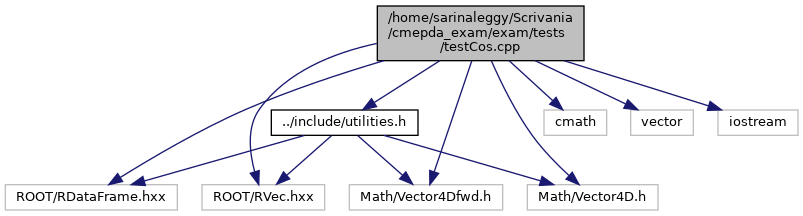
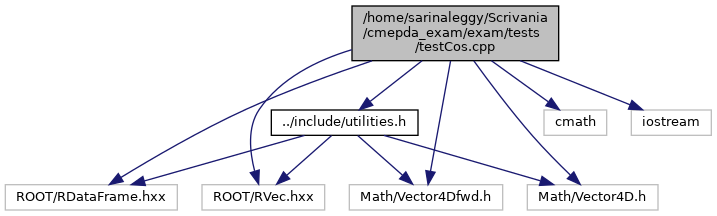
Add files via upload

Changed region(s): [[0.0, 0.0, 1.0, 1.0]]

diff --git a/testOperationHist_8cpp.html b/testOperationHist_8cpp.html
@@ -113,27 +113,27 @@ Include dependency graph for testOperationHist.cpp:</div>
 <div class="dyncontent">
 <div class="center"><img src="testOperationHist_8cpp__incl.png" border="0" usemap="#a_2home_2sarinaleggy_2Scrivania_2cmepda__exam_2exam_2tests_2testOperationHist_8cpp" alt=""/></div>
 <map name="a_2home_2sarinaleggy_2Scrivania_2cmepda__exam_2exam_2tests_2testOperationHist_8cpp" id="a_2home_2sarinaleggy_2Scrivania_2cmepda__exam_2exam_2tests_2testOperationHist_8cpp">
-<area shape="rect" title="Testing if the the content of bins are almost equal to the calculated value after operation on histog..." alt="" coords="1329,5,1536,61"/>
-<area shape="rect" href="graphicalUtilities_8h.html" title="Graphical utilities for displaying histograms of Afb, Z spectrum, cos(theta*) and saving the plots." alt="" coords="933,109,1141,136"/>
-<area shape="rect" title=" " alt="" coords="5,184,76,211"/>
-<area shape="rect" title=" " alt="" coords="100,184,272,211"/>
-<area shape="rect" title=" " alt="" coords="1526,184,1649,211"/>
-<area shape="rect" title=" " alt="" coords="1673,184,1827,211"/>
-<area shape="rect" title=" " alt="" coords="1851,184,1982,211"/>
-<area shape="rect" title=" " alt="" coords="1521,109,1601,136"/>
-<area shape="rect" title=" " alt="" coords="1625,109,1688,136"/>
-<area shape="rect" title=" " alt="" coords="1712,109,1777,136"/>
-<area shape="rect" title=" " alt="" coords="1106,184,1197,211"/>
-<area shape="rect" title=" " alt="" coords="1221,184,1279,211"/>
-<area shape="rect" title=" " alt="" coords="1304,184,1369,211"/>
-<area shape="rect" title=" " alt="" coords="1393,184,1501,211"/>
-<area shape="rect" title=" " alt="" coords="296,184,367,211"/>
-<area shape="rect" title=" " alt="" coords="391,184,549,211"/>
-<area shape="rect" title=" " alt="" coords="573,184,663,211"/>
-<area shape="rect" title=" " alt="" coords="687,184,765,211"/>
-<area shape="rect" title=" " alt="" coords="790,184,865,211"/>
-<area shape="rect" title=" " alt="" coords="889,184,968,211"/>
-<area shape="rect" title=" " alt="" coords="992,184,1081,211"/>
+<area shape="rect" title="Testing if the the content of bins are almost equal to the calculated value after operation on histog..." alt="" coords="1002,5,1209,61"/>
+<area shape="rect" href="graphicalUtilities_8h.html" title="Graphical utilities for displaying histograms of Afb, Z spectrum, cos(theta*) and saving the plots." alt="" coords="860,109,1068,136"/>
+<area shape="rect" title=" " alt="" coords="5,184,85,211"/>
+<area shape="rect" title=" " alt="" coords="110,184,181,211"/>
+<area shape="rect" title=" " alt="" coords="205,184,377,211"/>
+<area shape="rect" title=" " alt="" coords="1631,184,1753,211"/>
+<area shape="rect" title=" " alt="" coords="1778,184,1931,211"/>
+<area shape="rect" title=" " alt="" coords="1956,184,2087,211"/>
+<area shape="rect" title=" " alt="" coords="1245,109,1307,136"/>
+<area shape="rect" title=" " alt="" coords="1331,109,1397,136"/>
+<area shape="rect" title=" " alt="" coords="820,184,911,211"/>
+<area shape="rect" title=" " alt="" coords="935,184,993,211"/>
+<area shape="rect" title=" " alt="" coords="1018,184,1083,211"/>
+<area shape="rect" title=" " alt="" coords="1107,184,1215,211"/>
+<area shape="rect" title=" " alt="" coords="1239,184,1310,211"/>
+<area shape="rect" title=" " alt="" coords="1334,184,1493,211"/>
+<area shape="rect" title=" " alt="" coords="1517,184,1606,211"/>
+<area shape="rect" title=" " alt="" coords="401,184,479,211"/>
+<area shape="rect" title=" " alt="" coords="504,184,579,211"/>
+<area shape="rect" title=" " alt="" coords="603,184,682,211"/>
+<area shape="rect" title=" " alt="" coords="706,184,795,211"/>
 </map>
 </div>
 </div><table class="memberdecls">

diff --git a/testFilt_8cpp.html b/testFilt_8cpp.html
@@ -99,13 +99,12 @@ $(document).ready(function(){initNavTree('testFilt_8cpp.html',''); initResizable
 
 <p>Testing if the filter function works.  
 <a href="#details">More...</a></p>
-<div class="textblock"><code>#include &lt;ROOT/RDataFrame.hxx&gt;</code><br />
+<div class="textblock"><code>#include &quot;../src/filterDf.cpp&quot;</code><br />
+<code>#include &lt;ROOT/RDataFrame.hxx&gt;</code><br />
 <code>#include &lt;cmath&gt;</code><br />
-<code>#include &quot;../src/filterDf.cpp&quot;</code><br />
 <code>#include &lt;ROOT/RVec.hxx&gt;</code><br />
 <code>#include &lt;Math/Vector4Dfwd.h&gt;</code><br />
 <code>#include &lt;Math/Vector4D.h&gt;</code><br />
-<code>#include &lt;vector&gt;</code><br />
 <code>#include &lt;iostream&gt;</code><br />
 <code>#include &lt;filesystem&gt;</code><br />
 </div><div class="textblock"><div class="dynheader">
@@ -113,16 +112,15 @@ Include dependency graph for testFilt.cpp:</div>
 <div class="dyncontent">
 <div class="center"><img src="testFilt_8cpp__incl.png" border="0" usemap="#a_2home_2sarinaleggy_2Scrivania_2cmepda__exam_2exam_2tests_2testFilt_8cpp" alt=""/></div>
 <map name="a_2home_2sarinaleggy_2Scrivania_2cmepda__exam_2exam_2tests_2testFilt_8cpp" id="a_2home_2sarinaleggy_2Scrivania_2cmepda__exam_2exam_2tests_2testFilt_8cpp">
-<area shape="rect" title="Testing if the filter function works." alt="" coords="561,5,768,61"/>
-<area shape="rect" title=" " alt="" coords="5,109,177,136"/>
-<area shape="rect" title=" " alt="" coords="201,109,264,136"/>
-<area shape="rect" title=" " alt="" coords="289,109,417,136"/>
-<area shape="rect" title=" " alt="" coords="441,109,563,136"/>
-<area shape="rect" title=" " alt="" coords="588,109,741,136"/>
-<area shape="rect" title=" " alt="" coords="766,109,897,136"/>
-<area shape="rect" title=" " alt="" coords="921,109,984,136"/>
-<area shape="rect" title=" " alt="" coords="1009,109,1089,136"/>
-<area shape="rect" title=" " alt="" coords="1113,109,1203,136"/>
+<area shape="rect" title="Testing if the filter function works." alt="" coords="481,5,687,61"/>
+<area shape="rect" title=" " alt="" coords="5,109,133,136"/>
+<area shape="rect" title=" " alt="" coords="158,109,330,136"/>
+<area shape="rect" title=" " alt="" coords="354,109,417,136"/>
+<area shape="rect" title=" " alt="" coords="441,109,564,136"/>
+<area shape="rect" title=" " alt="" coords="589,109,742,136"/>
+<area shape="rect" title=" " alt="" coords="767,109,897,136"/>
+<area shape="rect" title=" " alt="" coords="921,109,1001,136"/>
+<area shape="rect" title=" " alt="" coords="1025,109,1116,136"/>
 </map>
 </div>
 </div><table class="memberdecls">

diff --git a/testEnergy_8cpp.html b/testEnergy_8cpp.html
@@ -99,28 +99,26 @@ $(document).ready(function(){initNavTree('testEnergy_8cpp.html',''); initResizab
 
 <p>Testing if the sum of E1 and E2 is almost equal to Etot.  
 <a href="#details">More...</a></p>
-<div class="textblock"><code>#include &lt;ROOT/RDataFrame.hxx&gt;</code><br />
+<div class="textblock"><code>#include &quot;<a class="el" href="utilities_8h_source.html">../include/utilities.h</a>&quot;</code><br />
+<code>#include &lt;ROOT/RDataFrame.hxx&gt;</code><br />
 <code>#include &lt;cmath&gt;</code><br />
-<code>#include &quot;<a class="el" href="utilities_8h_source.html">../include/utilities.h</a>&quot;</code><br />
 <code>#include &lt;ROOT/RVec.hxx&gt;</code><br />
 <code>#include &lt;Math/Vector4Dfwd.h&gt;</code><br />
 <code>#include &lt;Math/Vector4D.h&gt;</code><br />
-<code>#include &lt;vector&gt;</code><br />
 <code>#include &lt;iostream&gt;</code><br />
 </div><div class="textblock"><div class="dynheader">
 Include dependency graph for testEnergy.cpp:</div>
 <div class="dyncontent">
 <div class="center"><img src="testEnergy_8cpp__incl.png" border="0" usemap="#a_2home_2sarinaleggy_2Scrivania_2cmepda__exam_2exam_2tests_2testEnergy_8cpp" alt=""/></div>
 <map name="a_2home_2sarinaleggy_2Scrivania_2cmepda__exam_2exam_2tests_2testEnergy_8cpp" id="a_2home_2sarinaleggy_2Scrivania_2cmepda__exam_2exam_2tests_2testEnergy_8cpp">
-<area shape="rect" title="Testing if the sum of E1 and E2 is almost equal to Etot." alt="" coords="377,5,584,61"/>
-<area shape="rect" title=" " alt="" coords="5,184,177,211"/>
-<area shape="rect" title=" " alt="" coords="544,109,607,136"/>
+<area shape="rect" title="Testing if the sum of E1 and E2 is almost equal to Etot." alt="" coords="352,5,559,61"/>
 <area shape="rect" href="utilities_8h.html" title="Utilities to define new columns on the dataframe." alt="" coords="271,109,418,136"/>
+<area shape="rect" title=" " alt="" coords="5,184,177,211"/>
 <area shape="rect" title=" " alt="" coords="202,184,325,211"/>
 <area shape="rect" title=" " alt="" coords="349,184,503,211"/>
 <area shape="rect" title=" " alt="" coords="527,184,658,211"/>
-<area shape="rect" title=" " alt="" coords="631,109,693,136"/>
-<area shape="rect" title=" " alt="" coords="718,109,798,136"/>
+<area shape="rect" title=" " alt="" coords="544,109,607,136"/>
+<area shape="rect" title=" " alt="" coords="631,109,711,136"/>
 </map>
 </div>
 </div><table class="memberdecls">

diff --git a/utilities_8h.html b/utilities_8h.html
@@ -100,9 +100,9 @@ $(document).ready(function(){initNavTree('utilities_8h.html',''); initResizable(
 <p>Utilities to define new columns on the dataframe.  
 <a href="#details">More...</a></p>
 <div class="textblock"><code>#include &lt;ROOT/RDataFrame.hxx&gt;</code><br />
-<code>#include &quot;ROOT/RVec.hxx&quot;</code><br />
-<code>#include &quot;Math/Vector4Dfwd.h&quot;</code><br />
-<code>#include &quot;Math/Vector4D.h&quot;</code><br />
+<code>#include &lt;ROOT/RVec.hxx&gt;</code><br />
+<code>#include &lt;Math/Vector4Dfwd.h&gt;</code><br />
+<code>#include &lt;Math/Vector4D.h&gt;</code><br />
 </div><div class="textblock"><div class="dynheader">
 Include dependency graph for utilities.h:</div>
 <div class="dyncontent">
@@ -121,9 +121,9 @@ This graph shows which files directly or indirectly include this file:</div>
 <div class="center"><img src="utilities_8h__dep__incl.png" border="0" usemap="#a_2home_2sarinaleggy_2Scrivania_2cmepda__exam_2exam_2include_2utilities_8hdep" alt=""/></div>
 <map name="a_2home_2sarinaleggy_2Scrivania_2cmepda__exam_2exam_2include_2utilities_8hdep" id="a_2home_2sarinaleggy_2Scrivania_2cmepda__exam_2exam_2include_2utilities_8hdep">
 <area shape="rect" title="Utilities to define new columns on the dataframe." alt="" coords="637,5,851,61"/>
-<area shape="rect" href="afb_8h.html" title=" " alt="" coords="5,117,256,158"/>
-<area shape="rect" href="costheta_8h.html" title=" " alt="" coords="281,109,495,165"/>
-<area shape="rect" href="dimuonSpectrumZ_8h.html" title=" " alt="" coords="519,109,734,165"/>
+<area shape="rect" href="afb_8h.html" title="Creating afb histogram in function of dimuon mass." alt="" coords="5,117,256,158"/>
+<area shape="rect" href="costheta_8h.html" title="Creating costheta histogram from filtered dataframe." alt="" coords="281,109,495,165"/>
+<area shape="rect" href="dimuonSpectrumZ_8h.html" title="Creating dimuon spectrum histogram of Z from filtered dataframe." alt="" coords="519,109,734,165"/>
 <area shape="rect" href="testCos_8cpp.html" title="Testing if the |cos(theta*)|&lt;1." alt="" coords="758,109,965,165"/>
 <area shape="rect" href="testEnergy_8cpp.html" title="Testing if the sum of E1 and E2 is almost equal to Etot." alt="" coords="989,109,1195,165"/>
 <area shape="rect" href="testEnergyFormulas_8cpp.html" title="Testing if E_i^2=m^2+p_i^2." alt="" coords="1219,109,1426,165"/>

diff --git a/testEnergyFormulas_8cpp.html b/testEnergyFormulas_8cpp.html
@@ -99,28 +99,26 @@ $(document).ready(function(){initNavTree('testEnergyFormulas_8cpp.html',''); ini
 
 <p>Testing if E_i^2=m^2+p_i^2.  
 <a href="#details">More...</a></p>
-<div class="textblock"><code>#include &lt;ROOT/RDataFrame.hxx&gt;</code><br />
+<div class="textblock"><code>#include &quot;<a class="el" href="utilities_8h_source.html">../include/utilities.h</a>&quot;</code><br />
+<code>#include &lt;ROOT/RDataFrame.hxx&gt;</code><br />
 <code>#include &lt;cmath&gt;</code><br />
-<code>#include &quot;<a class="el" href="utilities_8h_source.html">../include/utilities.h</a>&quot;</code><br />
 <code>#include &lt;ROOT/RVec.hxx&gt;</code><br />
 <code>#include &lt;Math/Vector4Dfwd.h&gt;</code><br />
 <code>#include &lt;Math/Vector4D.h&gt;</code><br />
-<code>#include &lt;vector&gt;</code><br />
 <code>#include &lt;iostream&gt;</code><br />
 </div><div class="textblock"><div class="dynheader">
 Include dependency graph for testEnergyFormulas.cpp:</div>
 <div class="dyncontent">
 <div class="center"><img src="testEnergyFormulas_8cpp__incl.png" border="0" usemap="#a_2home_2sarinaleggy_2Scrivania_2cmepda__exam_2exam_2tests_2testEnergyFormulas_8cpp" alt=""/></div>
 <map name="a_2home_2sarinaleggy_2Scrivania_2cmepda__exam_2exam_2tests_2testEnergyFormulas_8cpp" id="a_2home_2sarinaleggy_2Scrivania_2cmepda__exam_2exam_2tests_2testEnergyFormulas_8cpp">
-<area shape="rect" title="Testing if E_i^2=m^2+p_i^2." alt="" coords="377,5,584,61"/>
-<area shape="rect" title=" " alt="" coords="5,184,177,211"/>
-<area shape="rect" title=" " alt="" coords="544,109,607,136"/>
+<area shape="rect" title="Testing if E_i^2=m^2+p_i^2." alt="" coords="352,5,559,61"/>
 <area shape="rect" href="utilities_8h.html" title="Utilities to define new columns on the dataframe." alt="" coords="271,109,418,136"/>
+<area shape="rect" title=" " alt="" coords="5,184,177,211"/>
 <area shape="rect" title=" " alt="" coords="202,184,325,211"/>
 <area shape="rect" title=" " alt="" coords="349,184,503,211"/>
 <area shape="rect" title=" " alt="" coords="527,184,658,211"/>
-<area shape="rect" title=" " alt="" coords="631,109,693,136"/>
-<area shape="rect" title=" " alt="" coords="718,109,798,136"/>
+<area shape="rect" title=" " alt="" coords="544,109,607,136"/>
+<area shape="rect" title=" " alt="" coords="631,109,711,136"/>
 </map>
 </div>
 </div><table class="memberdecls">

diff --git a/utilities_8h_source.html b/utilities_8h_source.html
@@ -99,9 +99,9 @@ $(document).ready(function(){initNavTree('utilities_8h_source.html',''); initRes
 <div class="line"><a name="l00008"></a><span class="lineno">    8</span>&#160;<span class="preprocessor">#define UTILITIES_H</span></div>
 <div class="line"><a name="l00009"></a><span class="lineno">    9</span>&#160; </div>
 <div class="line"><a name="l00010"></a><span class="lineno">   10</span>&#160;<span class="preprocessor">#include &lt;ROOT/RDataFrame.hxx&gt;</span></div>
-<div class="line"><a name="l00011"></a><span class="lineno">   11</span>&#160;<span class="preprocessor">#include &quot;ROOT/RVec.hxx&quot;</span></div>
-<div class="line"><a name="l00012"></a><span class="lineno">   12</span>&#160;<span class="preprocessor">#include &quot;Math/Vector4Dfwd.h&quot;</span></div>
-<div class="line"><a name="l00013"></a><span class="lineno">   13</span>&#160;<span class="preprocessor">#include &quot;Math/Vector4D.h&quot;</span></div>
+<div class="line"><a name="l00011"></a><span class="lineno">   11</span>&#160;<span class="preprocessor">#include &lt;ROOT/RVec.hxx&gt;</span></div>
+<div class="line"><a name="l00012"></a><span class="lineno">   12</span>&#160;<span class="preprocessor">#include &lt;Math/Vector4Dfwd.h&gt;</span></div>
+<div class="line"><a name="l00013"></a><span class="lineno">   13</span>&#160;<span class="preprocessor">#include &lt;Math/Vector4D.h&gt;</span></div>
 <div class="line"><a name="l00014"></a><span class="lineno">   14</span>&#160; </div>
 <div class="line"><a name="l00015"></a><span class="lineno">   15</span>&#160;<span class="keyword">using namespace </span>ROOT::VecOps;</div>
 <div class="line"><a name="l00016"></a><span class="lineno">   16</span>&#160; </div>

diff --git a/testCos_8cpp.html b/testCos_8cpp.html
@@ -105,22 +105,20 @@ $(document).ready(function(){initNavTree('testCos_8cpp.html',''); initResizable(
 <code>#include &lt;ROOT/RVec.hxx&gt;</code><br />
 <code>#include &lt;Math/Vector4Dfwd.h&gt;</code><br />
 <code>#include &lt;Math/Vector4D.h&gt;</code><br />
-<code>#include &lt;vector&gt;</code><br />
 <code>#include &lt;iostream&gt;</code><br />
 </div><div class="textblock"><div class="dynheader">
 Include dependency graph for testCos.cpp:</div>
 <div class="dyncontent">
 <div class="center"><img src="testCos_8cpp__incl.png" border="0" usemap="#a_2home_2sarinaleggy_2Scrivania_2cmepda__exam_2exam_2tests_2testCos_8cpp" alt=""/></div>
 <map name="a_2home_2sarinaleggy_2Scrivania_2cmepda__exam_2exam_2tests_2testCos_8cpp" id="a_2home_2sarinaleggy_2Scrivania_2cmepda__exam_2exam_2tests_2testCos_8cpp">
-<area shape="rect" title="Testing if the |cos(theta*)|&lt;1." alt="" coords="377,5,584,61"/>
+<area shape="rect" title="Testing if the |cos(theta*)|&lt;1." alt="" coords="352,5,559,61"/>
 <area shape="rect" title=" " alt="" coords="5,184,177,211"/>
 <area shape="rect" title=" " alt="" coords="544,109,607,136"/>
 <area shape="rect" href="utilities_8h.html" title="Utilities to define new columns on the dataframe." alt="" coords="271,109,418,136"/>
 <area shape="rect" title=" " alt="" coords="202,184,325,211"/>
 <area shape="rect" title=" " alt="" coords="349,184,503,211"/>
 <area shape="rect" title=" " alt="" coords="527,184,658,211"/>
-<area shape="rect" title=" " alt="" coords="631,109,693,136"/>
-<area shape="rect" title=" " alt="" coords="718,109,798,136"/>
+<area shape="rect" title=" " alt="" coords="631,109,711,136"/>
 </map>
 </div>
 </div><table class="memberdecls">
